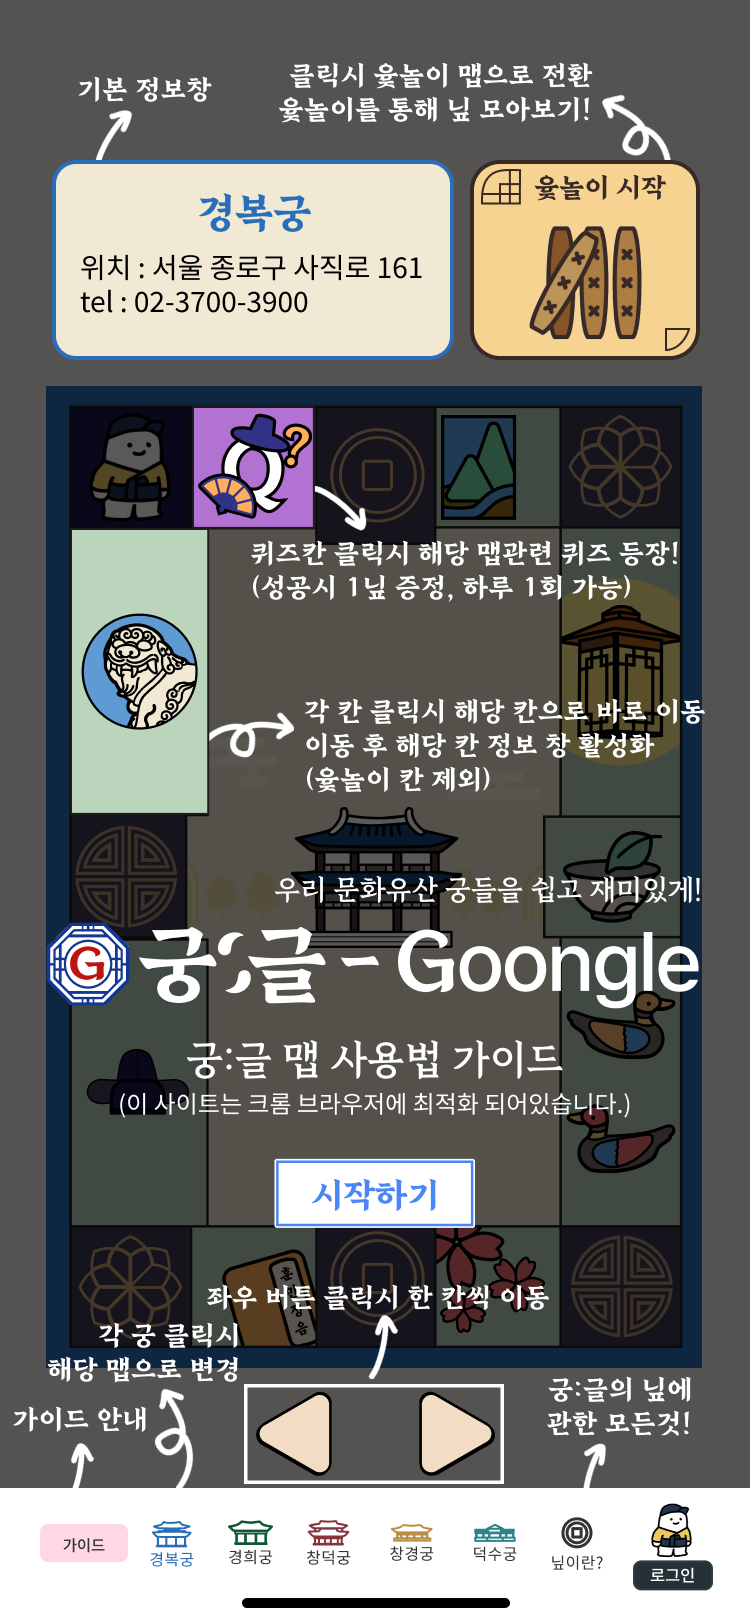
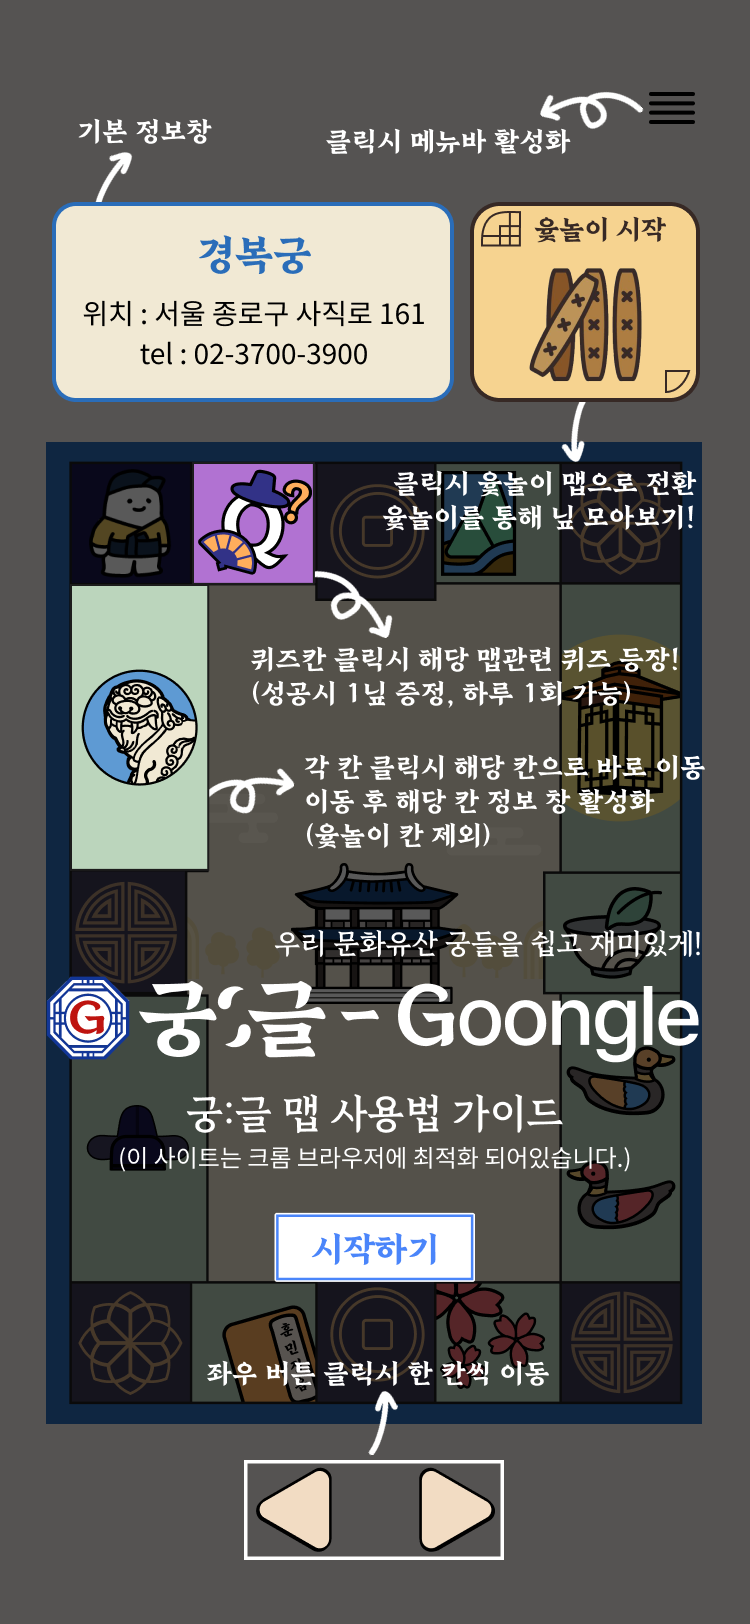
0521-10:20_아인

diff --git a/public/index.html b/public/index.html
@@ -18,6 +18,7 @@
 
   <!-- Swiper CSS -->
   <link rel="stylesheet" href="https://cdn.jsdelivr.net/npm/swiper@11/swiper-bundle.min.css" />
+  <link href="https://fonts.googleapis.com/css2?family=Material+Symbols+Outlined" rel="stylesheet" />
 
   <!--
       manifest.json provides metadata used when your web app is installed on a

diff --git a/src/components/Header.css b/src/components/Header.css
@@ -200,7 +200,7 @@
         transition: transform 0.4s ease-in-out;
         padding-inline: 0;
         /* padding-bottom: 20px; */
-        padding-top: 40px;
+        padding-top: 5vh;
         /* gap: 8vw; */
     }
 
